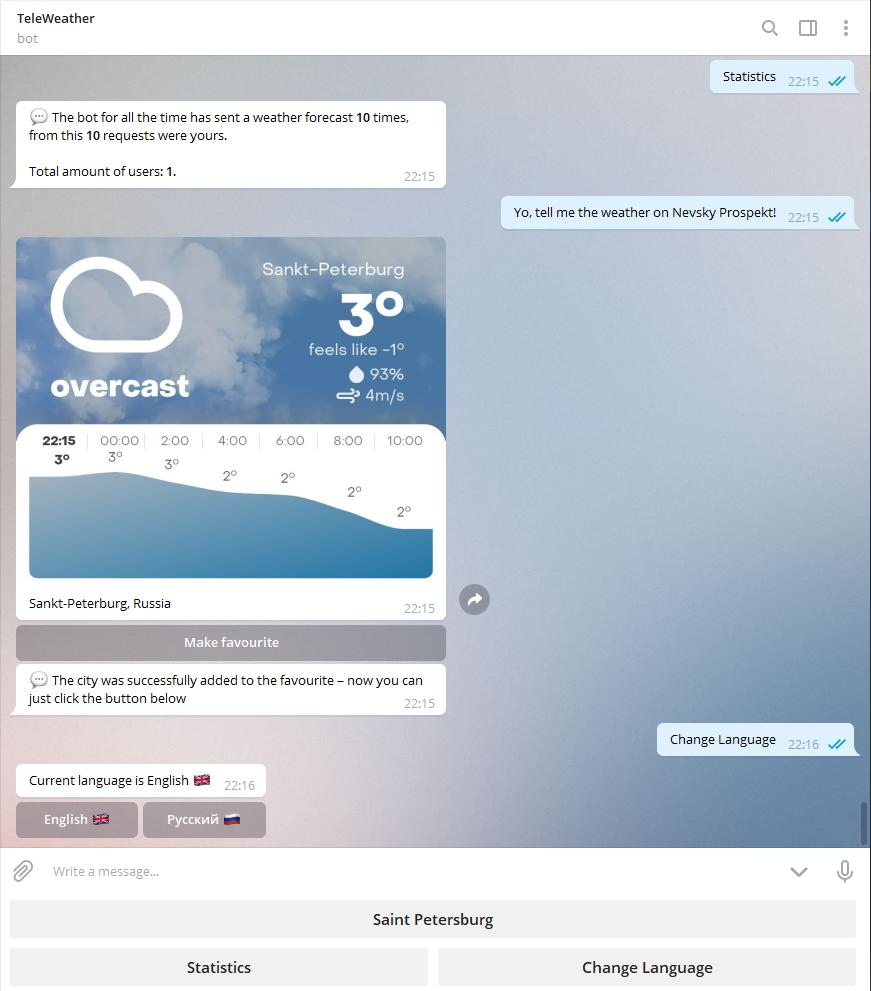
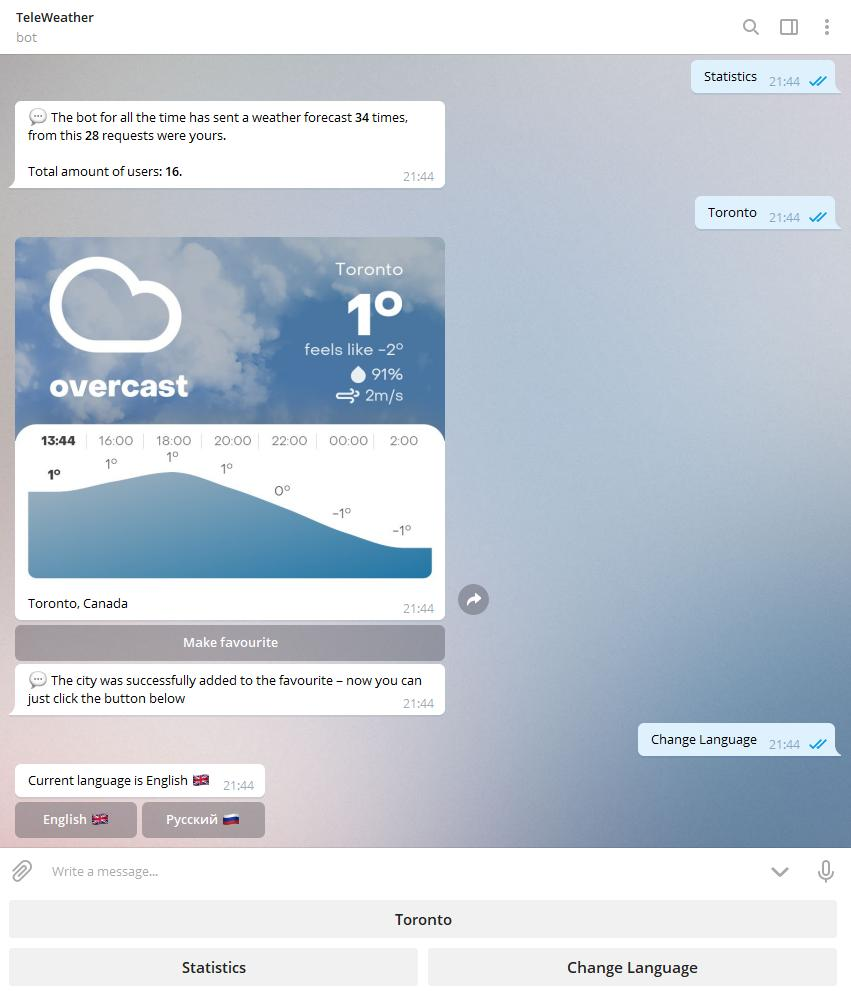
new geo api

diff --git a/bot/utils/weatherapi.py b/bot/utils/weatherapi.py
@@ -8,29 +8,28 @@ class WeatherAPI:
         self.weather_token = weather_token
         self.geo_token = geo_token
         self.weather_url = f'https://api.darksky.net/forecast/{self.weather_token}/'
-        self.geo_url = 'https://maps.googleapis.com/maps/api/geocode/'
+        self.geo_url = 'https://geocoder.ls.hereapi.com/6.2/geocode.json'
 
-    def get_geo(self, address, language):
-        request = self.geo_url + f'json?address={address}&key={self.geo_token}&language={language}'
-        response = requests.get(request).json()
-        results = dict()
+    def get_geo(self, address):
+        request = self.geo_url + f'?apiKey={self.geo_token}&searchtext={address}'
+        response = requests.get(request)
 
-        if response['status'] == 'OK':
-            address = response['results'][0]['address_components']
+        if response.status_code == 200:
+            if raw_data:= response.json()['Response']['View']:
+                location = raw_data[0]['Result'][0]['Location']
 
-            for item in address:
-                if 'country' in item['types']:
-                    results['country'] = item['long_name']
-                if 'locality' in item['types'] or 'sublocality' in item['types'] or 'postal_town' in item['types']:
-                    results['city'] = item['long_name']
-
-            results.update(response['results'][0]['geometry']['location'])
-            return results
+                return {
+                    'lat': location['DisplayPosition']['Latitude'],
+                    'lng': location['DisplayPosition']['Longitude'],
+                    'country':location['Address']['Label'].split(' ')[-1],  # bruh
+                    'city': location['Address']['District'] if 'District' in location['Address']
+                        else location['Address']['City']
+                }
 
     def get_weather(self, name, language):
-        if geo := self.get_geo(name, language):
-            lat = str(geo["lat"])
-            lng = str(geo["lng"])
+        if geo := self.get_geo(name):
+            lat = str(geo['lat'])
+            lng = str(geo['lng'])
 
             response = requests.get(
                 f'{self.weather_url}{lat},{lng}?lang={language}'

diff --git a/config.py b/config.py
@@ -1,8 +1,6 @@
 bot_token = ''  # token of your bot from @BotFather
-darksky_key = ''  # API-key from darksky.net
-geocoding_token = ''  # API-token from Google Geocoding API
-
-admins = (0,)  # telegram ids of admins
+darksky_token = ''  # API-key from darksky.net
+geocoder_token = ''  # API-token from developer.here.com
 
 webhook_host = ''  # where your bot is running
 webhook_port = 0  # 443, 80, 88 or 8443

diff --git a/bot/handlers.py b/bot/handlers.py
@@ -51,7 +51,7 @@ def handle_text(bot, message):
     with DataBase() as db:
         language = db.get_language(message.chat.id)
 
-        weather = WeatherAPI(config.darksky_token, config.geocoding_token)
+        weather = WeatherAPI(config.darksky_token, config.geocoder_token)
         info = weather.get_weather(message.text, language=language)
 
         if info:

diff --git a/README.md b/README.md
@@ -3,7 +3,7 @@ Telegram bot that shows weather in visual format. Try it out - t.me/TeleWeatherR
 
 # User Usage
 
-Just enter a name of any city, district, street or even a name of the shopping center. Bot's algorithms recognize location from any sentence, even from such - “Yo, tell me the weather on Nevsky Prospekt!”
+Just enter a name of any city, district or even street to be more accurate. 
 
 ![Example](https://github.com/adreex/TeleWeatherRobot/blob/master/example_for_readmre.png)
 
@@ -17,10 +17,9 @@ Instructions below are specified only for Linux and MacOS.
 
 # Configuration config.py
 1. Create a Telegram Bot at **t.me/BotFather** and get the token of your bot, then put it as `bot_token` variable.
-2. Go to **darksky.net**, get your API-key for `darksky_key`.
-3. And you have to get the last one token `geocoding_token` at Google Geocoding API.
-4. Then you can enter for `admins` some ids of users who can make mass mailing.
-5. Fill your `webhook_host ` and `webhook_port` (443, 80, 88 or 8443).
+2. Go to **darksky.net**, get your API-key for `darksky_token`.
+3. And you have to get the last one token `geocoder_token` from **developer.here.com**.
+4. Fill your `webhook_host` and `webhook_port` (443, 80, 88 or 8443).
 
 # Deployment
 1. Generate quick'n'dirty SSL certificate:
@@ -31,7 +30,7 @@ openssl req -new -x509 -days 3650 -key webhook_pkey.pem -out webhook_cert.pem
 When asked for "Common Name (e.g. server FQDN or YOUR name)" you should reply with the same value as your server's ip addres
 
 
-2. Create virtual environment for Python and install all requiremetns:
+2. Create virtual environment for Python and install all requirements:
 ```
 virtualenv venv --python=python3
 source venv/bin/activate
